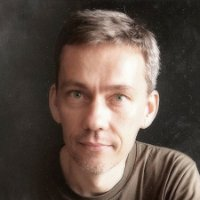
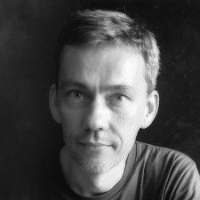
BW team image update

diff --git a/index.html b/index.html
@@ -55,45 +55,22 @@
 	         <li><a href="#team" class="smoothScroll">Team</a></li>
 	         <li><a href="#testimonials" class="smoothScroll">Blog</a></li>
 	         <li><a href="#contact" class="smoothScroll">Contact</a></li>
-	         <li><a href="#"><i class="fa fa-facebook"></i></a></li>
-	         <li><a href="#"><i class="fa fa-twitter"></i></a></li>
+	         <li><a href="http://www.facebook.com/share.php?u=http://smartgrow.co" target="_blank" class="share-icon" data-type="Share" data-network="Facebook"><i class="fa fa-facebook"></i></a></li>
+	         <li><a href="https://twitter.com/share?url=https%3A%2F%2Fsmartgrow.co" target="_blank" class="share-icon" data-type="Share" data-network="Twitter"><i class="fa fa-twitter"></i></a></li>
 	         <li><a href="#"><i class="fa fa-instagram"></i></a></li>
 			<li><a href="#"><i class="fa fa-pinterest"></i></a></li>
+
 	      </ul>
 	    </div><!-- /.navbar-collapse -->
 	  </div><!-- /.container-fluid -->
 	</nav>
-
-
-	<!-- 
-	<!-- Menu -->
-	<!-- <nav class="menu" id="theMenu">
-		<div class="menu-wrap">
-			<h1 class="logo"><a href="index.html#home">SMARTGROW</a></h1>
-			<i class="fa fa-times menu-close"></i>
-			<a href="#home" class="smoothScroll">Home</a>
-			<a href="#about" class="smoothScroll">About</a>
-			<a href="#portfolio" class="smoothScroll">Product</a>
-			<a href="#services" class="smoothScroll">Team</a>
-			<a href="#blog" class="smoothScroll">Blog</a>
-			<a href="#contact" class="smoothScroll">Contact</a>
-			<a href="#"><i class="fa fa-facebook"></i></a>
-			<a href="#"><i class="fa fa-twitter"></i></a>
-			<a href="#"><i class="fa fa-dribbble"></i></a>
-			<a href="#"><i class="fa fa-envelope"></i></a>
-		</div>
-		
-		<!-- Menu button 
-		<div id="menuToggle"><i class="fa fa-bars"></i></div>
-	</nav>
-			-->
 
 	<section id="home" name="home"></section>
 	<div id="headerwrap">
 		<div class="container">
 			<div class="row">
 				<div class="col-md-6 col-md-offset-3">
-					
+				<img src="assets/img/smartgrow_bulb_transparant_full.png" height="130">	
 				</div>
 					<h1>INTRODUCING THE WORLD'S <br>FIRST AQUAPONIC SENSOR KIT!</br></h1>
 
@@ -134,7 +111,7 @@
 					</div>
 				</div>	
 					<div>
-						<a href="#portfolio"><button type="button" class="btn-transp">Start Growing Today</button></a>
+						<a href="#portfolio" class="smoothScroll"><button type="button" class="btn-transp">Start Growing Today</button></a>
 					</div>
 				</div>
 			</div><! --/row -->
@@ -204,7 +181,7 @@
 	<div class="img-holder" data-image="assets/img/app_demo.jpg">
 			<div style="-webkit-transform: translateZ(1px)" class="container">
 				<div class="col-md-6 col-md-offset-3">
-					<p class="highlight" >Smartgrow reduces the complexity of Aquaponics into a simple home gardening exercise, managed smartly through any mobile device.</p>
+					<p class="highlight">Aquaponics is both water and energy efficient, and now mobile-ready.</p>
 				</div>
 			</div>	
 		</div>
@@ -230,7 +207,8 @@
 				<div class="col-sm-4 col-lg-4 proc">
 					<img src="assets/img/dashboard.png" height="80">
 					<h3>Dashboard Service</h3>
-					<p>Are the fishes alive?    Monitor the status of your fish tank and growbed whereever you are. Get an alert when something goes wrong!</p>
+					<p>Are the fishes alive?  Monitor the status of your fish tank and growbed whereever you are. Get an alert on your phone when your attention is needed.</p>
+					<p>API Coming Soon!</P>
 				</div>
 				<div class="col-sm-4 col-lg-4 proc">
 					<img src="assets/img/aquaponics_icon.png" height="80">
@@ -244,7 +222,7 @@
 		<div class="container">
 			<div class="row">
 				<h1>PRODUCTS</h1>
-				<h3>Introducing the world's first wireless sensor system dedicated to Aquaponics</h3>
+				<h3>Finally, an affordable and easy-to-use solution to autmate your farm!</h3>
 
 				 <div>
 	              	<a><img  class="img-responsive" src="assets/img/sensors.png"></a>
@@ -365,7 +343,7 @@
 			<div class="row">
 				<div class="col-lg-8-offset-2 centered">
 					<h1>Our Team</h1>
-					<h3>We bring together engineering, design and biology to tackle the big food challange, so that everyone can easily grow food organically, locally and intelligently.
+					<h3>We bring together engineering, design and biology to tackle the big food challange, so that everyone can grow food organically, locally and intelligently.
 					</h3>
 					<p></p>
 				</div><!-- /col-lg-8 -->
@@ -379,7 +357,7 @@
 						</div>	
 						<div class="col-xs-8 col-sm-6 bio-buffer">
 							<h4><strong>Andras KRISTOF</strong><br/><small>FOUNDER</small></h4>
-							<p class="text">Lorem Ipsum has been the industry's standard dummy text ever since the 1500s, when an unknown printer. Lorem Ipsum has been the industry's standard dummy text ever since the 1500s, when an unknown printer. Lorem Ipsum has been the industry's standard dummy text ever since the 1500s, when an unknown printer. </p>
+							<p class="text">Andras Kristof is an IT veteran and entrepreneur. During his 15 years of IT career, he has designed and built big, robust systems, serving over 20 million users per month. Andras lead engineering at Viki.com from its early beta to full-fledge product, which Rakuten aquired for $200m USD.  A son of a farmer, Andras founded Smartgrow to re-engineer agriculture so that everyone can have easy access to clean, healthy food.</p>
 						</div>	
 					</div>	
 				</div>
@@ -390,7 +368,7 @@
 						</div>
 						<div class="col-xs-8 col-sm-6 bio-buffer">
 							<h4><strong>Phil TINN</strong><br/><small>CO-FOUNDER</small></h4>
-							<p class="text">Phil leads our overall product development and partnership effort.  He grew up around fish farms and brings to Smartgrow end-to-end product development experience from Samsung’s Product Innovation Team, where he led mid-long term mobile and home appliance projects.  Previously he was a design and strategy consultant, receiving his B.A.(Hons) in Interdisciplinary Studies from UC Berkeley. </p>
+							<p class="text">Phil leads our overall product development effort and strategic partnerships.  He grew up around fish farms and brings to Smartgrow end-to-end product development experience from Samsung’s Product Innovation Team, where he led mid-long term mobile and home appliance projects.  Previously he was a design and strategy consultant, servicing Fortune 500 firms. He holds a BA(Hons) from UC Berkeley. </p>
 						</div>	
 					</div>	
 				</div>
@@ -403,8 +381,8 @@
 							<div><img class="img-square" src="assets/img/Daniel.jpg" height="230"></div>
 						</div>
 						<div class="col-xs-8 col-sm-6 bio-buffer">
-							<h4><strong>Daniel KIRILY</strong><br/><small>BIOLOGIST</small></h4>
-							<p class="text">Lorem Ipsum has been the industry's standard dummy text ever since the 1500s, when an unknown printer. Lorem Ipsum has been the industry's standard dummy text ever since the 1500s, when an unknown printer. Lorem Ipsum has been the industry's standard dummy text ever since the 1500s, when an unknown printer. </p>
+							<h4><strong>Daniel KIRILY</strong><br/><small>MICROFLUIDICS SPECIALIST</small></h4>
+							<p class="text">Daniel has a PhD in Biology and our guide laboratory technology in to new ventures in the recent years. After leaving his successful academic career, he co-founded a microfluidic technology company and helped to win several grants for this startup and collaborators. He joined Smartgrow in 2013 to work on the microfluidic prototype, market research and fundraising.</p>
 						</div>	
 					</div>	
 				</div>
@@ -416,7 +394,7 @@
 						</div>	
 						<div class="col-xs-8 col-sm-6 bio-buffer">
 							<h4><strong>Michael DOHERTY</strong><br/><small>VP HARDWARE ENGINEERING</small></h4>
-							<p class="text">Lorem Ipsum has been the industry's standard dummy text ever since the 1500s, when an unknown printer. Lorem Ipsum has been the industry's standard dummy text ever since the 1500s, when an unknown printer. Lorem Ipsum has been the industry's standard dummy text ever since the 1500s, when an unknown printer. </p>
+							<p class="text">Michael, an interactive media designer turned hacker, leads our hardware development, sourcing and manufacturing.  He came to Smartgrow from Bitponics, a cloud-based garden management platform startup, bringing diverse hands-on engineering experience ranging from interactive projections to open source community web platforms.  Michael holds a Masters in Interactive Communications from NYU. </p>
 						</div>	
 					</div>	
 				</div>
@@ -430,14 +408,14 @@
 						</div>
 						<div class="col-xs-8 col-sm-6 bio-buffer">
 							<h4><strong>Scott DE JONG</strong><br/><small>MECHATRONICS LEAD</small></h4>
-							<p class="text">Lorem Ipsum has been the industry's standard dummy text ever since the 1500s, when an unknown printer. Lorem Ipsum has been the industry's standard dummy text ever since the 1500s, when an unknown printer. Lorem Ipsum has been the industry's standard dummy text ever since the 1500s, when an unknown printer. </p>
+							<p class="text">Scott leads the prototyping of our next-generation microfluidics sensors.   In addition to holding a B.Eng. in Product Development and a M.Eng. in Mechatronics from Massey University, Scott brings to Smartgrow diverse practical engineering experience, including projects on optical sensors and industrial automation. </p>
 						</div>	
 					</div>	
 				</div>
 				<div class="col-md-6">
 					<div class="row">
 						<div class="col-xs-8 col-sm-6 bio-buffer" >
-							<div><img class="img-square" src="assets/img/Dinh.jpg" height="230"></div>
+							<div><img class="img-square" src="assets/img/Dinh.png" height="230"></div>
 						</div>
 						<div class="col-xs-8 col-sm-6 bio-buffer">
 							<h4><strong>Dinh QUOC</strong><br/><small>SOFTWARE DEVELOPEMENT LEAD</small></h4>
@@ -515,8 +493,8 @@
 							Singapore</small>
 						</p>
 						<p>
-							<small>Tel. 9888-4394<br/>
-							Mail. info@smartgrow.co<br/>
+							<small><br/>
+							Email us at:  <a href="mailto:info@smartgrow.co?cc=phil@smartgrow.co"> info@smartgrow.co</a><br/>
 							
 						</p>
 				

diff --git a/assets/css/style.css b/assets/css/style.css
@@ -271,7 +271,7 @@ h1, h2, h3, h4, h5, h6 {
 	
 	background: linear-gradient( rgba(0, 0, 0, 0.1), rgba(0, 0, 0, 0.4) ), url(../img/gooseberry.jpg) no-repeat center top;
 	margin-top: 0px;
-	padding-top:110px;
+	padding-top:65px;
 	text-align:center;
 	background-attachment: relative;
 	background-position: center center;
@@ -392,10 +392,10 @@ h1, h2, h3, h4, h5, h6 {
 	color: #f7f7f7;
 	text-align: center;
 	position: relative;
-	margin-top: 120px;
+	margin-top: 30px;
 	
-	margin-left: 30px;
-	margin-right: 30px;
+	margin-left: 20px;
+	margin-right: 20px;
 }
 
 
